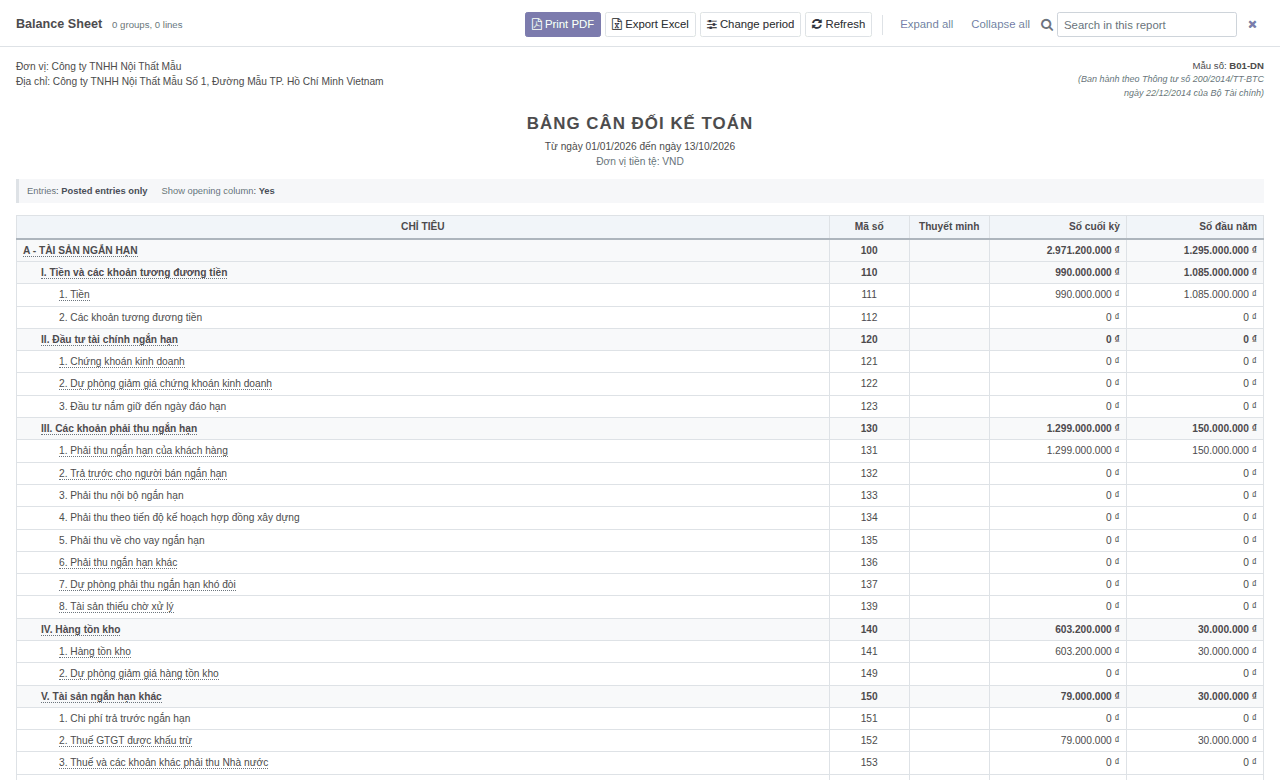
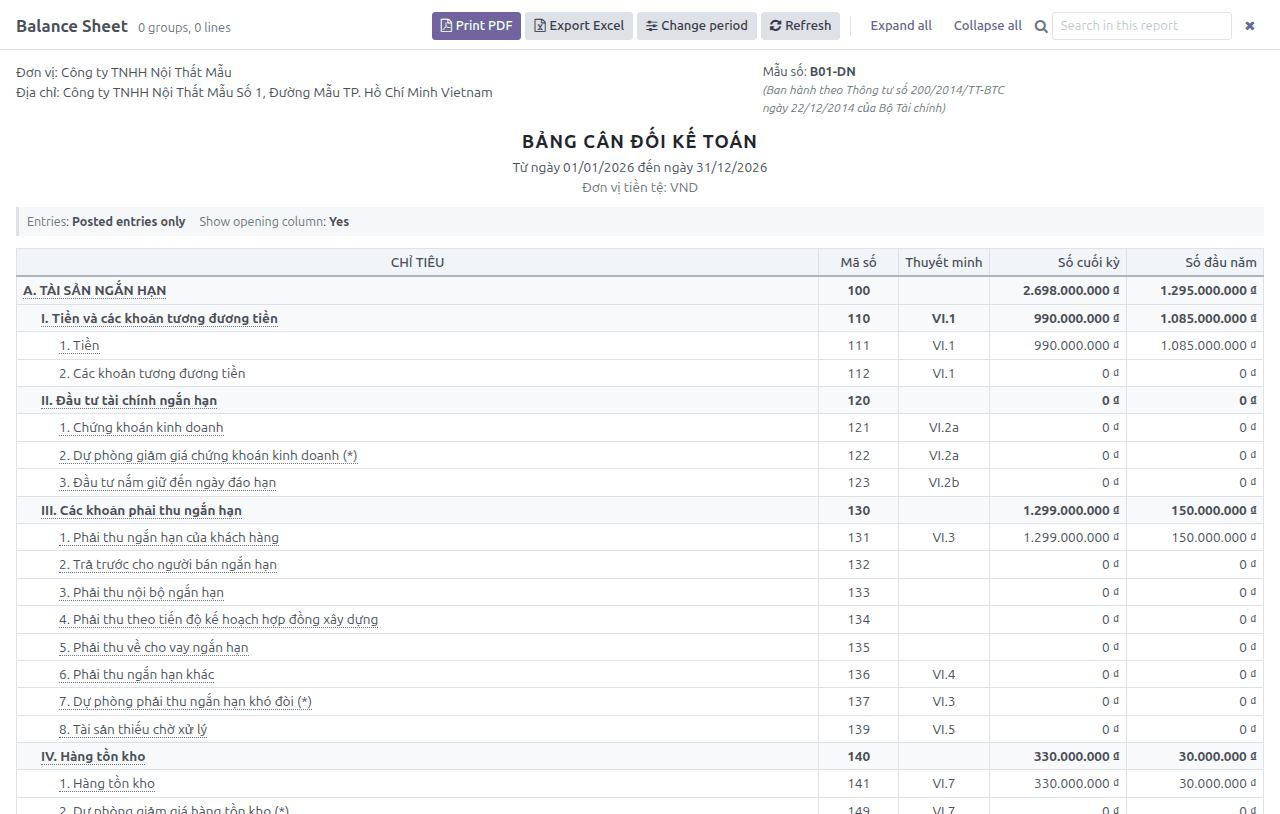
Store page: new screenshots, TT99 and the B09 notes
Screenshots retaken on the demo company: the TT200 balance sheet with the
lines of the circular, the TT99 balance sheet, the B09 notes (figures and
checks) and the company settings for the notes. The description covers
TT99, the notes of all three circulars and the company settings; the
manifest summary names TT200, TT133 and TT99.

diff --git a/l10n_vn_vas_reports/static/description/index.html b/l10n_vn_vas_reports/static/description/index.html
@@ -1,8 +1,8 @@
 <section class="oe_container">
     <div class="oe_row oe_spaced">
         <div class="oe_span12">
-            <h2 class="oe_slogan">Vietnam VAS Reports (TT200 / TT133)</h2>
-            <h3 class="oe_slogan">S&#7893; s&#225;ch k&#7871; to&#225;n, b&#225;o c&#225;o t&#224;i ch&#237;nh, b&#7843;ng k&#234; thu&#7871; GTGT v&#224; phi&#7871;u thu chi
+            <h2 class="oe_slogan">Vietnam VAS Reports (TT200 / TT133 / TT99)</h2>
+            <h3 class="oe_slogan">S&#7893; s&#225;ch k&#7871; to&#225;n, b&#225;o c&#225;o t&#224;i ch&#237;nh, thuy&#7871;t minh B09, b&#7843;ng k&#234; thu&#7871; GTGT v&#224; phi&#7871;u thu chi
                 theo Chu&#7849;n m&#7921;c K&#7871; to&#225;n Vi&#7879;t Nam &#8212; cho Odoo 17 Community</h3>
         </div>
         <div class="oe_span12">
@@ -20,13 +20,27 @@
             <p>Collapsible accounts, search, and a click on any line opens the journal entry.</p>
             <img class="img img-fluid oe_screenshot" src="vas_general_ledger.png"/>
 
-            <h4 class="oe_mt32 mt32">B&#7843;ng c&#226;n &#273;&#7889;i k&#7871; to&#225;n (B01-DN)</h4>
-            <p>Click a line to open the general ledger for exactly the accounts behind it.</p>
+            <h4 class="oe_mt32 mt32">B&#7843;ng c&#226;n &#273;&#7889;i k&#7871; to&#225;n (B01-DN, Th&#244;ng t&#432; 200/2014)</h4>
+            <p>Every code of the printed form, with the source accounts of &#272;i&#7873;u 112. Click a line to open the general ledger for exactly the accounts behind it; the "Thuy&#7871;t minh" column points at the note that explains it.</p>
             <img class="img img-fluid oe_screenshot" src="vas_balance_sheet.png"/>
 
             <h4 class="oe_mt32 mt32">B&#225;o c&#225;o k&#7871;t qu&#7843; ho&#7841;t &#273;&#7897;ng kinh doanh (B02-DN)</h4>
             <p>Current year against the previous one.</p>
             <img class="img img-fluid oe_screenshot" src="vas_income_statement.png"/>
+
+            <h4 class="oe_mt32 mt32">B&#225;o c&#225;o t&#236;nh h&#236;nh t&#224;i ch&#237;nh (B01-DN, Th&#244;ng t&#432; 99/2025)</h4>
+            <p>The same books on the forms of Th&#244;ng t&#432; 99/2025, for financial years from 2026: choose the regime on the company.</p>
+            <img class="img img-fluid oe_screenshot" src="vas_tt99_balance_sheet.png"/>
+
+            <h4 class="oe_mt32 mt32">B&#7843;n thuy&#7871;t minh b&#225;o c&#225;o t&#224;i ch&#237;nh (B09)</h4>
+            <p>Kept per company and year, and locked once filed. The tables are read from the ledger with the accounts of the balance sheet and income statement; next year's comparatives come from this year's locked notes.</p>
+            <img class="img img-fluid oe_screenshot" src="vas_notes.png"/>
+            <p>Every total is checked against the statement line it explains.</p>
+            <img class="img img-fluid oe_screenshot" src="vas_notes_checks.png"/>
+
+            <h4 class="oe_mt32 mt32">Thuy&#7871;t minh: c&#224;i &#273;&#7863;t theo c&#244;ng ty</h4>
+            <p>Related parties, overdue debts, loans by due date and the company's own accounts for the rows the circular gives no account for.</p>
+            <img class="img img-fluid oe_screenshot" src="vas_note_settings.png"/>
 
             <h4 class="oe_mt32 mt32">B&#7843;ng c&#226;n &#273;&#7889;i s&#7889; ph&#225;t sinh (S06-DN)</h4>
             <img class="img img-fluid oe_screenshot" src="vas_trial_balance.png"/>
@@ -47,16 +61,17 @@
             <h3>B&#225;o c&#225;o trong module n&#224;y / Reports included</h3>
             <ul>
                 <li><b>S&#7893; k&#7871; to&#225;n:</b> S&#7893; Nh&#7853;t k&#253; chung (S03a-DN), S&#7893; C&#225;i (S03b-DN),
-                    B&#7843;ng c&#226;n &#273;&#7889;i s&#7889; ph&#225;t sinh (S06-DN)</li>
+                    B&#7843;ng c&#226;n &#273;&#7889;i s&#7889; ph&#225;t sinh (S06-DN &#183; F01-DNN)</li>
                 <li><b>S&#7893; chi ti&#7871;t:</b> S&#7893; chi ti&#7871;t thanh to&#225;n v&#7899;i ng&#432;&#7901;i mua, ng&#432;&#7901;i b&#225;n (S31-DN),
                     S&#7893; qu&#7929; ti&#7873;n m&#7863;t / ti&#7873;n g&#7917;i ng&#226;n h&#224;ng (S07-DN / S08-DN),
                     S&#7893; chi ti&#7871;t b&#225;n h&#224;ng (S35-DN),
                     S&#7893; chi ph&#237; s&#7843;n xu&#7845;t, kinh doanh (S36-DN),
                     B&#7843;ng ph&#226;n b&#7893; nguy&#234;n li&#7879;u, v&#7853;t li&#7879;u, c&#244;ng c&#7909;, d&#7909;ng c&#7909; (07-VT),
                     B&#7843;ng t&#7893;ng h&#7907;p c&#244;ng n&#7907; theo tu&#7893;i n&#7907;</li>
-                <li><b>B&#225;o c&#225;o t&#224;i ch&#237;nh:</b> B&#7843;ng c&#226;n &#273;&#7889;i k&#7871; to&#225;n (B01-DN &#183; B01a-DNN),
-                    B&#225;o c&#225;o k&#7871;t qu&#7843; ho&#7841;t &#273;&#7897;ng kinh doanh (B02-DN &#183; B02-DNN),
-                    B&#225;o c&#225;o l&#432;u chuy&#7875;n ti&#7873;n t&#7879; (B03-DN tr&#7921;c ti&#7871;p &#183; B03-DNN gi&#225;n ti&#7871;p)</li>
+                <li><b>B&#225;o c&#225;o t&#224;i ch&#237;nh &#8212; Th&#244;ng t&#432; 200/2014:</b> B01-DN, B02-DN, B03-DN, thuy&#7871;t minh B09-DN</li>
+                <li><b>B&#225;o c&#225;o t&#224;i ch&#237;nh &#8212; Th&#244;ng t&#432; 133/2016:</b> B01a-DNN, B01b-DNN (kh&#244;ng &#273;&#225;p &#7913;ng gi&#7843; &#273;&#7883;nh ho&#7841;t &#273;&#7897;ng li&#234;n t&#7909;c),
+                    B02-DNN, B03-DNN (tr&#7921;c ti&#7871;p &#183; gi&#225;n ti&#7871;p), thuy&#7871;t minh B09-DNN</li>
+                <li><b>B&#225;o c&#225;o t&#224;i ch&#237;nh &#8212; Th&#244;ng t&#432; 99/2025:</b> B01-DN, B02-DN, B03-DN (tr&#7921;c ti&#7871;p &#183; gi&#225;n ti&#7871;p), thuy&#7871;t minh B09-DN</li>
                 <li><b>Thu&#7871; GTGT:</b> B&#7843;ng k&#234; ho&#225; &#273;&#417;n b&#225;n ra / mua v&#224;o (ph&#7909; l&#7909;c 01/GTGT),
                     T&#7901; khai thu&#7871; GTGT (m&#7851;u 01/GTGT)</li>
                 <li><b>Ch&#7913;ng t&#7915;:</b> Phi&#7871;u thu (01-TT), Phi&#7871;u chi (02-TT) in th&#7859;ng t&#7915; b&#250;t to&#225;n</li>
@@ -70,18 +85,23 @@
         <div class="oe_span12">
             <h3>&#272;i&#7875;m &#273;&#225;ng tin c&#7853;y / Why the numbers hold up</h3>
             <ul>
+                <li><b>Theo &#273;&#250;ng v&#259;n b&#7843;n:</b> m&#227; s&#7889;, t&#234;n ch&#7881; ti&#234;u v&#224; t&#224;i kho&#7843;n ngu&#7891;n c&#7911;a t&#7915;ng ch&#7881; ti&#234;u
+                    l&#7845;y t&#7915; ph&#7909; l&#7909;c v&#224; h&#432;&#7899;ng d&#7851;n l&#7853;p c&#7911;a th&#244;ng t&#432;; phi&#7871;u in ghi m&#7851;u s&#7889; v&#224; d&#242;ng
+                    "Ban h&#224;nh theo Th&#244;ng t&#432;&#8230;" c&#7911;a ch&#7871; &#273;&#7897; c&#244;ng ty &#225;p d&#7909;ng.</li>
                 <li><b>M&#7897;t QWeb template cho c&#7843; m&#224;n h&#236;nh v&#224; PDF</b> &#8212; b&#7843;n xem v&#224; b&#7843;n in
                     kh&#244;ng bao gi&#7901; l&#7879;ch nhau. Xu&#7845;t Excel cho m&#7885;i b&#225;o c&#225;o, k&#232;m &#273;&#417;n v&#7883;,
                     k&#7923; v&#224; &#273;i&#7873;u ki&#7879;n l&#7885;c.</li>
                 <li><b>S&#7889; d&#432; &#273;&#7847;u k&#7923; theo n&#259;m t&#224;i ch&#237;nh:</b> t&#224;i kho&#7843;n b&#7843;ng c&#226;n &#273;&#7889;i lu&#7929; k&#7871;
                     t&#7915; khi th&#224;nh l&#7853;p, t&#224;i kho&#7843;n k&#7871;t qu&#7843; kinh doanh reset &#273;&#7847;u n&#259;m.</li>
-                <li><b>T&#225;ch d&#432; N&#7907; / d&#432; C&#243; theo t&#7915;ng &#273;&#7889;i t&#432;&#7907;ng</b> tr&#234;n B&#7843;ng c&#226;n &#273;&#7889;i k&#7871; to&#225;n
-                    (TK 131, 331) &#8212; t&#237;nh theo t&#7915;ng kh&#225;ch h&#224;ng r&#7891;i m&#7899;i c&#7897;ng.</li>
+                <li><b>T&#225;ch d&#432; N&#7907; / d&#432; C&#243; theo t&#7915;ng &#273;&#7889;i t&#432;&#7907;ng</b> (TK 131, 331) v&#224;
+                    <b>t&#225;ch ng&#7855;n h&#7841;n / d&#224;i h&#7841;n</b> theo ng&#224;y &#273;&#7871;n h&#7841;n c&#7911;a b&#250;t to&#225;n.</li>
+                <li><b>Thuy&#7871;t minh B09 t&#7921; &#273;&#7889;i chi&#7871;u</b> v&#7899;i B01, B02: d&#242;ng n&#224;o l&#7879;ch &#273;&#432;&#7907;c ch&#7881; ra tr&#432;&#7899;c khi kh&#243;a.</li>
                 <li><b>Tu&#7893;i n&#7907; t&#7841;i m&#7897;t ng&#224;y trong qu&#225; kh&#7913;</b> c&#7897;ng ng&#432;&#7907;c c&#225;c kho&#7843;n
                     &#273;&#7889;i tr&#7915; ph&#225;t sinh sau ng&#224;y ch&#7889;t.</li>
-                <li><b>TT200 hay TT133 l&#224; thu&#7897;c t&#237;nh c&#7911;a c&#244;ng ty</b> (C&#7845;u h&#236;nh &#8594; C&#244;ng ty);
+                <li><b>TT200, TT133 hay TT99 l&#224; thu&#7897;c t&#237;nh c&#7911;a c&#244;ng ty</b> (C&#7845;u h&#236;nh &#8594; C&#244;ng ty);
                     ch&#7881; ti&#234;u b&#225;o c&#225;o l&#224; d&#7919; li&#7879;u &#225;nh x&#7841; s&#7917;a &#273;&#432;&#7907;c qua giao di&#7879;n,
-                    kh&#244;ng ph&#7843;i m&#227; Python, v&#224; <b>kh&#244;ng d&#249;ng eval</b>.</li>
+                    kh&#244;ng ph&#7843;i m&#227; Python, v&#224; <b>kh&#244;ng d&#249;ng eval</b>. N&#226;ng c&#7845;p module kh&#244;ng ghi &#273;&#232;
+                    d&#242;ng &#225;nh x&#7841; c&#244;ng ty &#273;&#227; s&#7917;a.</li>
                 <li><b>Truy v&#7871;t ng&#432;&#7907;c:</b> b&#7845;m m&#7897;t ch&#7881; ti&#234;u tr&#234;n B01/B02 m&#7903; &#273;&#250;ng S&#7893; C&#225;i
                     c&#225;c t&#224;i kho&#7843;n c&#7845;u th&#224;nh, r&#7891;i t&#7899;i t&#7915;ng b&#250;t to&#225;n v&#224; ch&#7913;ng t&#7915; g&#7889;c.</li>
                 <li>To&#224;n b&#7897; nghi&#7879;p v&#7909; n&#7857;m trong domain Python thu&#7847;n (module

diff --git a/l10n_vn_vas_reports/__manifest__.py b/l10n_vn_vas_reports/__manifest__.py
@@ -5,7 +5,7 @@
     'version': '17.0.1.6.0',
     'category': 'Accounting/Localizations/Reporting',
     'summary': 'Vietnamese statutory books, financial statements, VAT returns '
-               'and cash vouchers (TT200)',
+               'and cash vouchers (TT200, TT133, TT99)',
     'author': 'Manh Nguyen',
     'license': 'AGPL-3',
     'website': 'https://github.com/parabol123654/vn-odoo-framework',

diff --git a/CHANGELOG.md b/CHANGELOG.md
@@ -31,6 +31,7 @@ Notable changes to these modules. Format follows [Keep a Changelog](https://keep
 
 ### Changed
 
+- Store page of Vietnam VAS Reports: new screenshots (TT200 B01-DN as the circular prints it, TT99 B01-DN, the B09 notes and their checks, the company settings for the notes) and a description covering TT99 and the notes of all three circulars.
 - TT200 balance sheet B01-DN and income statement B02-DN now follow Điều 112 and 113 of the circular line by line: all 115 codes of the printed form with their printed names; receivables, payables, provisions, inventory, loans and bonds split into short and long term by the due date of the journal items; 400 = 410 + 430, with every equity line counted. **Figures of companies on TT200 change.**
 - B02-DN: line 01 is the credit side of 511 and line 02 its debit side (deductions, once 521 is transferred to 511). Line 23 (interest expense) is left for the company to map to its own sub-account of 635, since 6351 is not a TT200 account; an upgrade keeps 6351* where the database has such an account.
 - The TT200 notes (B09-DN) check against the new lines.
